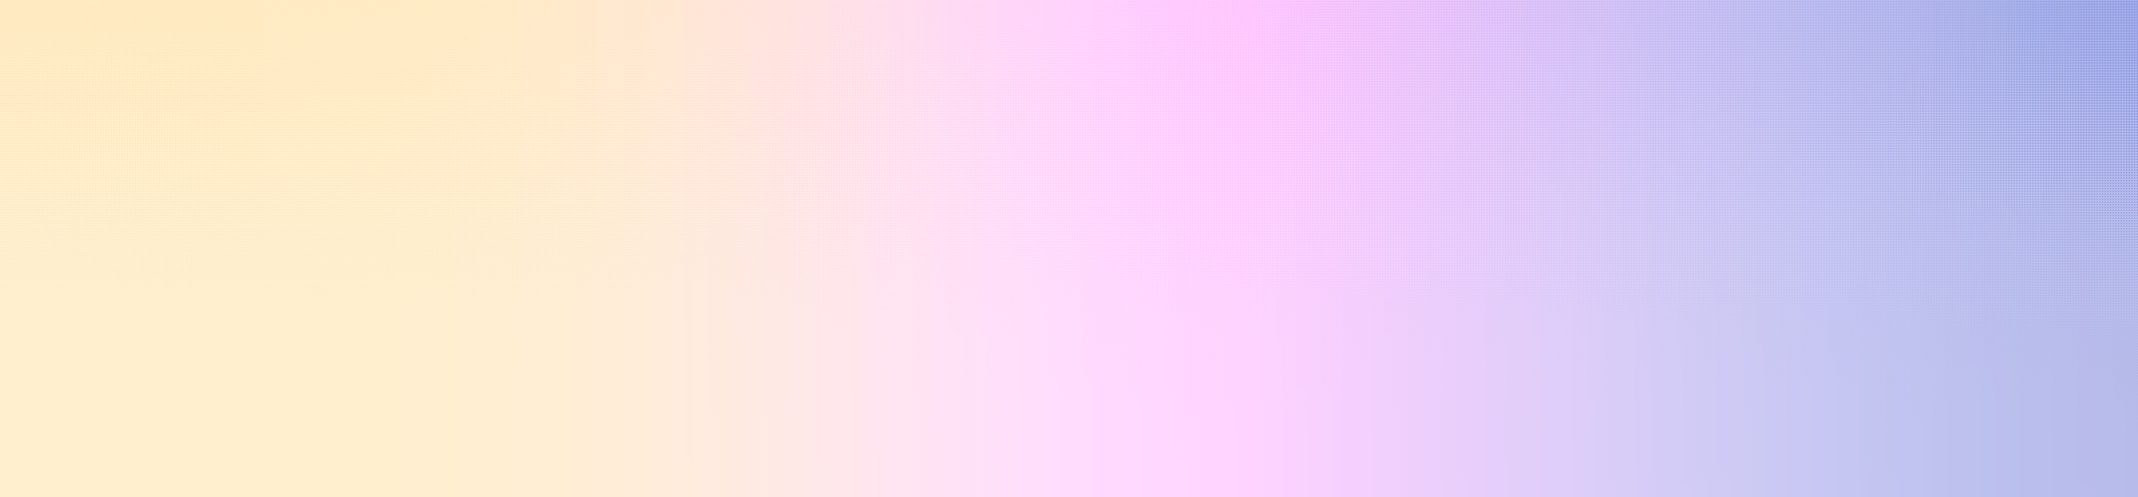
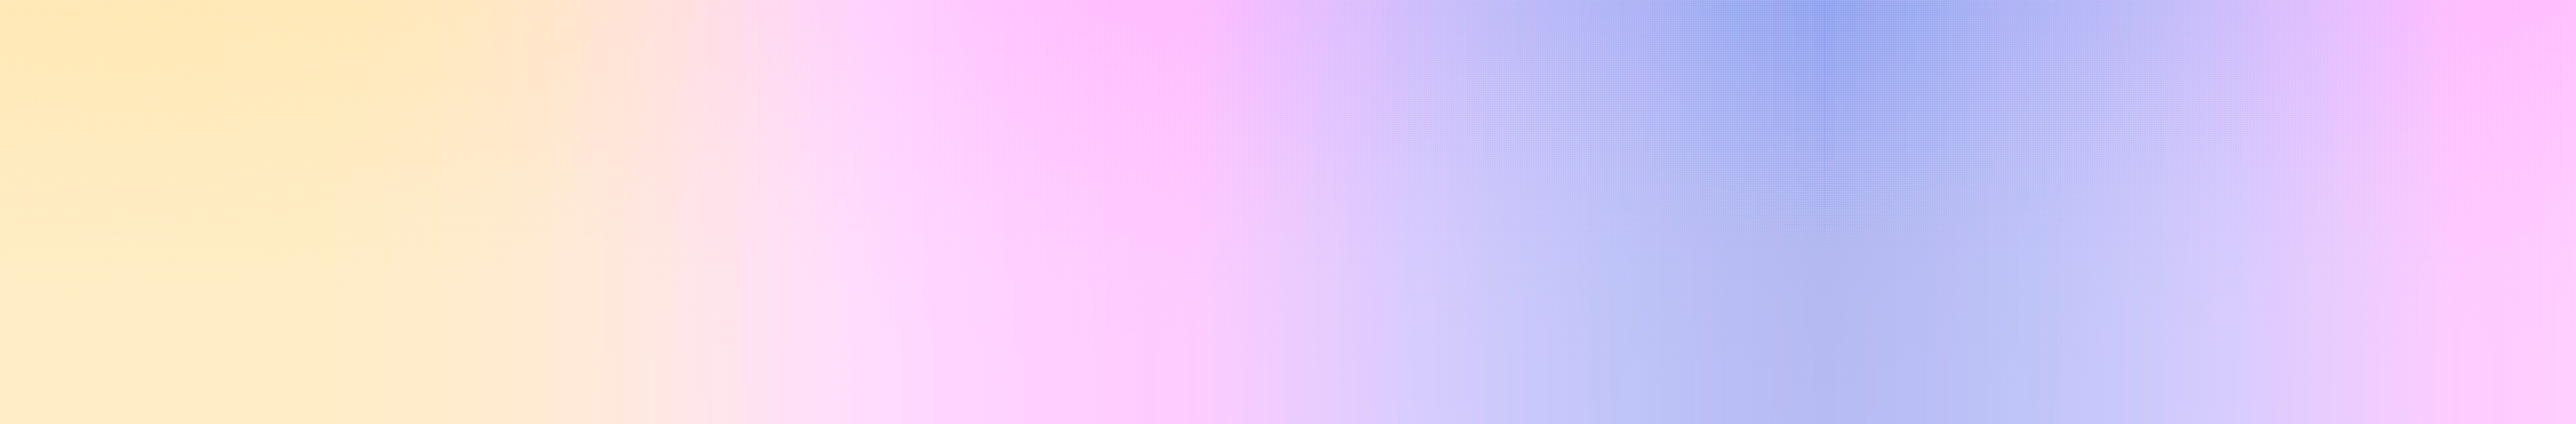
aquemini page styled

diff --git a/aquemini.html b/aquemini.html
@@ -18,7 +18,7 @@
                 position: absolute;
                 top: 0;
                 left: 0;
-                width: 200vw; 
+                width: 250vw; 
                 height: 100vh;
                 background-image: 
                     url(./img/aquemini/aquemini-bg.jpg);
@@ -28,39 +28,52 @@
                 z-index: -1; 
             }
             h1{
-                color: #40488C;
+                color: #b8bdef;
                 position: relative;
-                left:17%;
+                left:35vw;
                 margin: 1rem 3rem 3rem 3rem;
             }
             #one img, #four img{
                 height: 80vh;
             }
+            #one{
+                left:2vw;
+            }
+            #four{
+                left:70vw;
+            }
             #six img{
-                height: 70vh;
+                height: 95vh;
             }
-            .lyrics{
-                padding-left: 3rem;
-            }
+            
             #six{
-                position: relative;
-               left: -5rem;
+               left: 112vw;
+               /* top: 10vh; */
             }
          #two, #three{
             position: relative;
             padding-top: 10rem;
-               
+            left:35vw;
               }
-              #two, #four{
+            #five{
                 position: relative;
-                
-              }
+                left:60vw;
+            }
             #seven, #eight{
                 padding-top:20rem ;
             }
-            #seven, #eight, #nine{
+            #seven, #eight{
                 position: relative;
-                left: -70rem;
+               left: 70vw;
+                
+            }
+            #nine{
+                position: relative;
+                left: 80vw;
+                padding-right: 3vw;
+            }
+            .lyrics section{
+                z-index: 10;
             }
         </style>
     </head>

diff --git a/index.html b/index.html
@@ -20,7 +20,7 @@
             }
             .album-title{
                 position: absolute;
-                top: 65vh;
+                top: 48vh;
                 align-items: flex-end;
                 display: flex;
                 flex-direction: column;
@@ -29,6 +29,11 @@
             .album-title img{
                 width: 50%;
                 
+            }
+            h3{
+                color: rgb(255, 255, 255);
+                margin-bottom: -2rem;
+                font-size: 6vw;
             }
         </style>
     </head>
@@ -76,6 +81,7 @@
             </div>
         </li>
         <div class="album-title">
+            <h3>OutKast</h3>
             <img src="img/home/album-title.png">
             <div class="next-button">
                 <a href="SpottieOttieDopaliscious.html">CONTINUE TO ALBUM <i class="bi bi-skip-forward-fill"></i></a>

diff --git a/css/styles.css b/css/styles.css
@@ -34,10 +34,15 @@ p{
     overflow-y: hidden; 
     width: 100vw;
     height: 100vh;
+    position: relative;
 }
 .lyrics section {
     /* width: 23rem; */
     min-width: 40ch;
+    position: absolute;
+}
+.lyrics div{
+    position: absolute;
 }
 
 
@@ -162,6 +167,10 @@ div#seekObj1 img {
     font-variation-settings: "wght" 500;
     font-size: 23px;
     
+}
+.next-button:hover{
+   background-color: #D7db3f;
+   transform: scale(1.01);
 }
 .next-button a{
     text-decoration: none;
